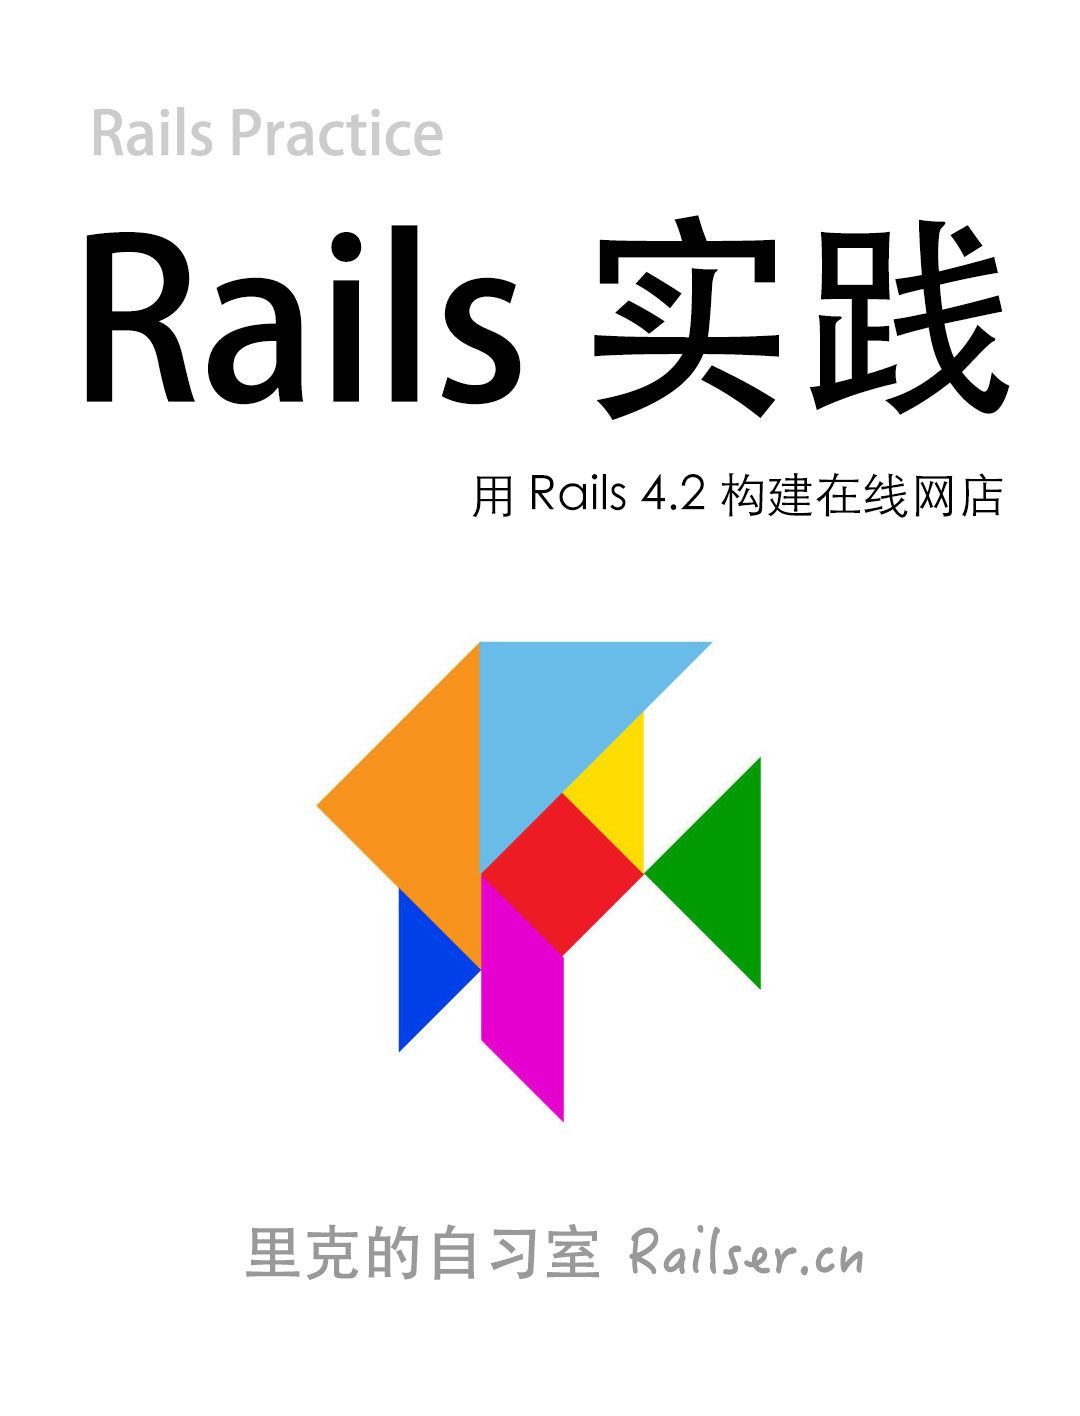
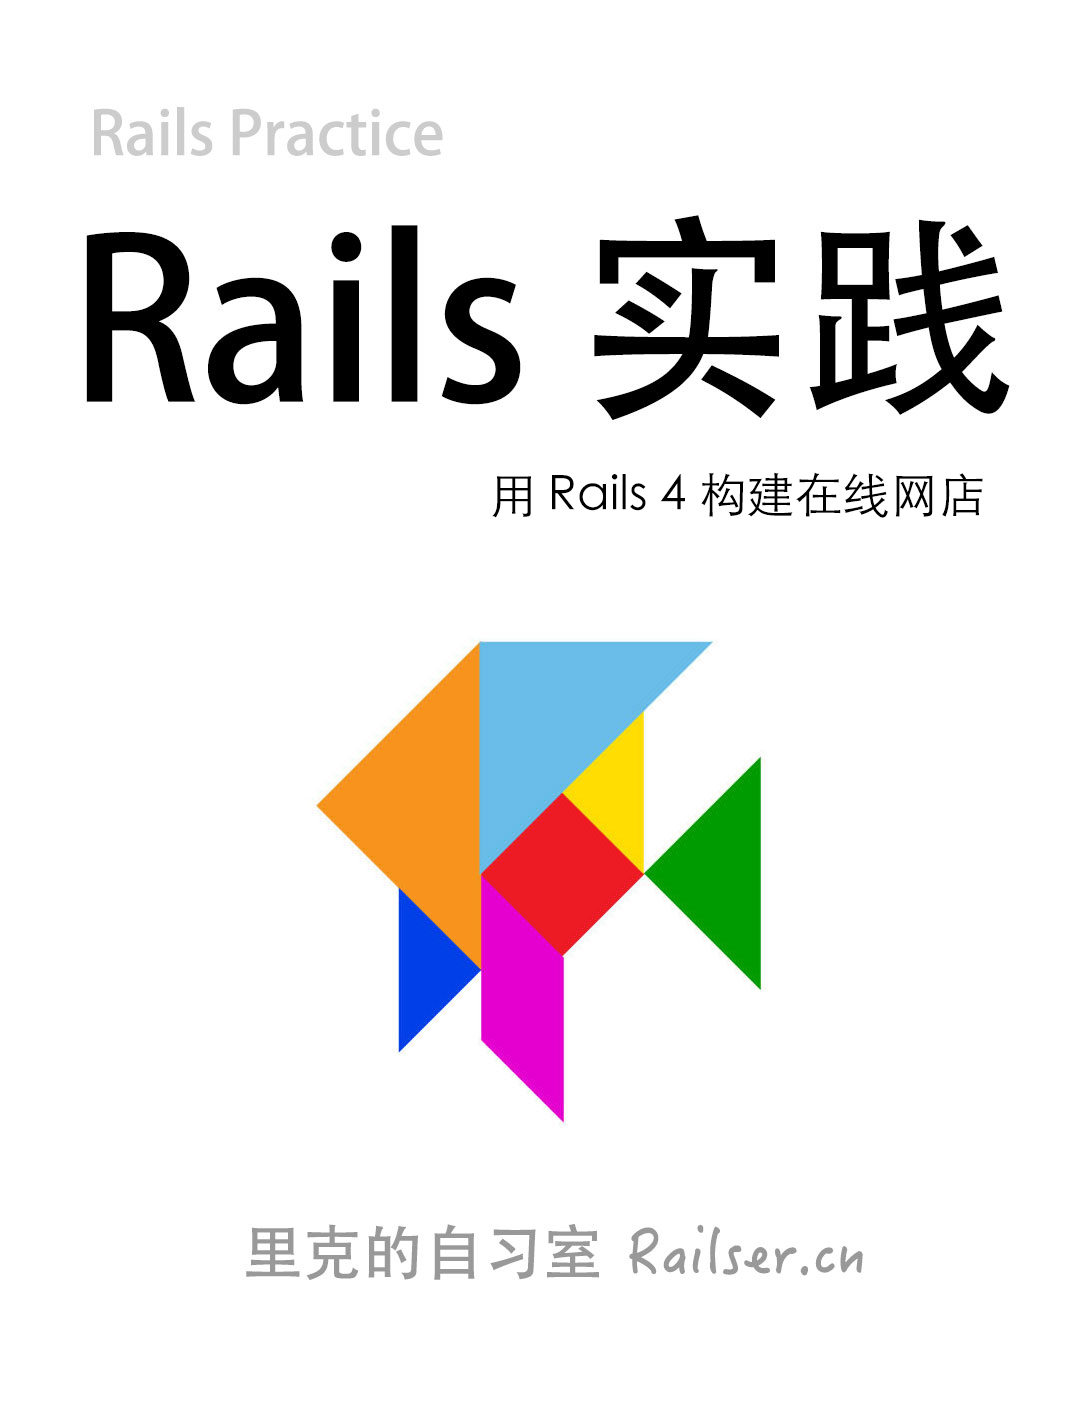
fix

Changed region(s): [[0.4278, 0.3107, 0.9167, 0.3729]]

diff --git a/README.md b/README.md
@@ -18,7 +18,20 @@
 
 ## 当前版本
 
-1.0.0
+1.1.0
+
+## 2017年2月更新说明
+
+* 书名更新为《Rails 实践：使用 Rails 4 构建在线网店》
+* 使用 Docker 作为开发调试环境，增加了 README.md，针对每一份代码有如何创建容器的说明
+* Ruby 版本更新为 2.3.3，请使用 `docker pull ruby:2.3.3` 镜像创建容器
+* Rails 版本统一更新为 4.2.7.1，请使用 `bundle update rails` 升级当前版本
+* 调整项目代码在当前 Ruby 和 Rails 版本下可正常运行
+* 更新 gems 数据源为 `https://gems.ruby-china.org`
+* 去掉了 .ruby-version 和 .ruby-gemset 两个文件
+* 结合大家在 issue 中反馈的问题进行调整
+* 精简部分代码
+* 修正 bug
 
 ## 本书读者
 
@@ -65,9 +78,9 @@
 
 ## 作者介绍
 
-李玮，网名里克，2007年开始从事 Rails 开发，先后经历过社会化搜索引擎 deyeb，华为生活社区百草网，电商平台等开发工作。目前就职于北京迅思科技课程树研发团队。
+李玮，网名里克，2007年开始从事 Rails 开发，先后经历过社会化搜索引擎 deyeb，华为生活社区百草网，电商平台等开发工作。在某网络安全公司从事产品开发。
 
-工作之余，担任长春心语志愿者协会网络顾问，Rails Girls China 编程教练。
+工作之余，担任长春心语志愿者协会网络顾问，编程教练以及80学院 Rails 导师。
 
 
 ## 里克的自习室公众号
@@ -76,7 +89,7 @@
 
 ## 感谢
 
-感谢我的公司北京迅思科技及 [课程树](http://www.lessontree.cn/) 团队中的每位成员。
+感谢北京迅思科技及 [课程树](http://www.lessontree.cn/) 团队中的每位成员。
 
 感谢所有关注过 [里克的自习室](http://railser.cn/) 的朋友们。
 

diff --git a/author.md b/author.md
@@ -1,3 +1,3 @@
-李玮，网名里克，2007年开始从事 Rails 开发，先后经历过社会化搜索引擎 deyeb，华为生活社区百草网，电商平台等开发工作。目前就职于北京迅思科技课程树研发团队。
+李玮，网名里克，2007年开始从事 Rails 开发，先后经历过社会化搜索引擎 deyeb，华为生活社区百草网，电商平台等开发工作。在某网络安全公司从事产品开发。
 
-工作之余，担任长春心语志愿者协会网络顾问，Rails Girls China 编程教练。
+工作之余，担任长春心语志愿者协会网络顾问，编程教练以及80学院 Rails 导师。

diff --git a/Chapter_1/1.3.md b/Chapter_1/1.3.md
@@ -10,6 +10,13 @@
 2. Bootswatch 工具及 Gem
 3. mybalsamiq 工具
 
+
+## 更新说明
+
+在新书编写之际，对当前内容作了一次升级。原代码编写于2015年，在此之后有不少版本的变动和 bug 的修复，导致当时的一些代码无法正确运行。
+
+本节中，修复了一些大家反馈的问题，如果你在调试时遇到问题，可以使用 `bundle update rails` 升级到 4.2.7.1，并且 `bundle update sass-rails` 升级到4.0.5 版本，经过我的调试，这是没有异常的。
+
 ## 正文
 
 ### 1.3.1 Bootstrap
